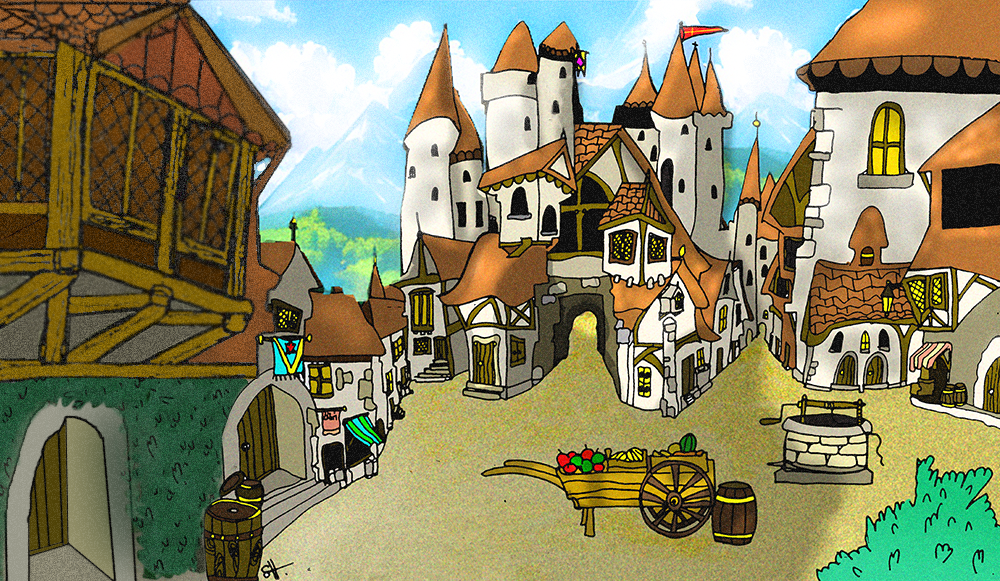
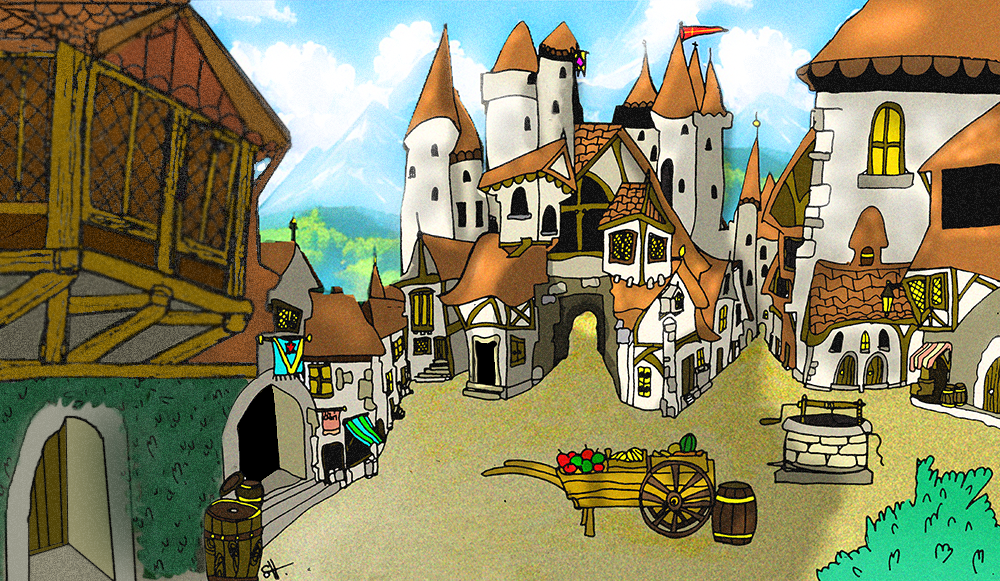
.

Changed region(s): [[0.217, 0.6506, 0.279, 0.8365], [0.465, 0.5886, 0.496, 0.6816]]

diff --git a/constantsAndGlobalVars.js b/constantsAndGlobalVars.js
@@ -24,10 +24,10 @@ export const urlCustomMouseCursorNormal = './resources/mouse/mouseCrosshair.png'
 export const urlCustomMouseCursorHoverInteresting = './resources/mouse/mouseHoverInteresting.png';
 export const urlCustomMouseCursorClickInteresting = './resources/mouse/mouseClickInteresting.png';
 export const urlCustomMouseCursorError = './resources/mouse/mouseNoPathFound.png';
-export const INITIAL_GAME_ID_NORMAL = 'roadIntoTown';
+export const INITIAL_GAME_ID_NORMAL = 'marketStreet';
 export const INITIAL_GAME_ID_DEBUG = 'debugRoom';
 export const PRE_INITIAL_GAME_BACKGROUND = './resources/backgrounds/preStartBackgroundImage.png'; //pre intro
-export const INITIAL_GAME_BACKGROUND_URL_NORMAL = './resources/backgrounds/roadIntoTown.png';
+export const INITIAL_GAME_BACKGROUND_URL_NORMAL = './resources/backgrounds/marketStreet.png';
 export const INITIAL_GAME_BACKGROUND_URL_DEBUG = './resources/backgrounds/debugRoom.png';
 export const MENU_STATE = 'menuState';
 export const GAME_VISIBLE_ACTIVE = 'gameVisibleActive';
@@ -247,6 +247,8 @@ export const arrayOfGameImages = [
     "./resources/objects/images/keyDenInv.png",
     "./resources/objects/images/libraryFoyer_Exit_MarketStreetClosed.png",
     "./resources/objects/images/libraryFoyer_Exit_MarketStreetOpen.png",
+    "./resources/objects/images/marketStreet_Exit_LibraryFoyerClosed.png",
+    "./resources/objects/images/marketStreet_Exit_LibraryFoyerOpen.png",
     "./resources/objects/images/libraryFoyer_Exit_ResearchRoomClosed.png",
     "./resources/objects/images/libraryFoyer_Exit_ResearchRoomOpen.png",
     "./resources/objects/images/machine.png",
@@ -302,6 +304,34 @@ export const arrayOfGameImages = [
     "./resources/npcs/townDogRight.png",
     "./resources/npcs/womanLostMirrorLeft.png",
     "./resources/npcs/womanLostMirrorRight.png",
+
+    //PLAYER
+    "./resources/player/still_up.png",
+    "./resources/player/move1_up.png",
+    "./resources/player/move2_up.png",
+    "./resources/player/still_down.png",
+    "./resources/player/move1_down.png",
+    "./resources/player/move2_down.png",
+    "./resources/player/still_left.png",
+    "./resources/player/move1_left.png",
+    "./resources/player/move2_left.png",
+    "./resources/player/move3_left.png",
+    "./resources/player/move4_left.png",
+    "./resources/player/move5_left.png",
+    "./resources/player/move6_left.png",
+    "./resources/player/move7_left.png",
+    "./resources/player/move8_left.png",
+    "./resources/player/move9_left.png",
+    "./resources/player/still_right.png",
+    "./resources/player/move1_right.png",
+    "./resources/player/move2_right.png",
+    "./resources/player/move3_right.png",
+    "./resources/player/move4_right.png",
+    "./resources/player/move5_right.png",
+    "./resources/player/move6_right.png",
+    "./resources/player/move7_right.png",
+    "./resources/player/move8_right.png",
+    "./resources/player/move9_right.png",
 
     //MOUSEPOINTER
     "./resources/mouse/mouseClickInteresting.png",

diff --git a/events.js b/events.js
@@ -43,7 +43,6 @@ export async function playCutsceneGameIntro() {
         //await new Promise with 50ms delay and then setBeginGameStatus(false) and the dialogue engine and remove narrator if necessary and update grid all inside promise
         //resolve promise
 
-
         //final animate to starting screen
         await animateTransitionAndChangeBackground(getInitialScreenId(), getInitialStartGridReference().x, getInitialStartGridReference().y);
         resolve();
